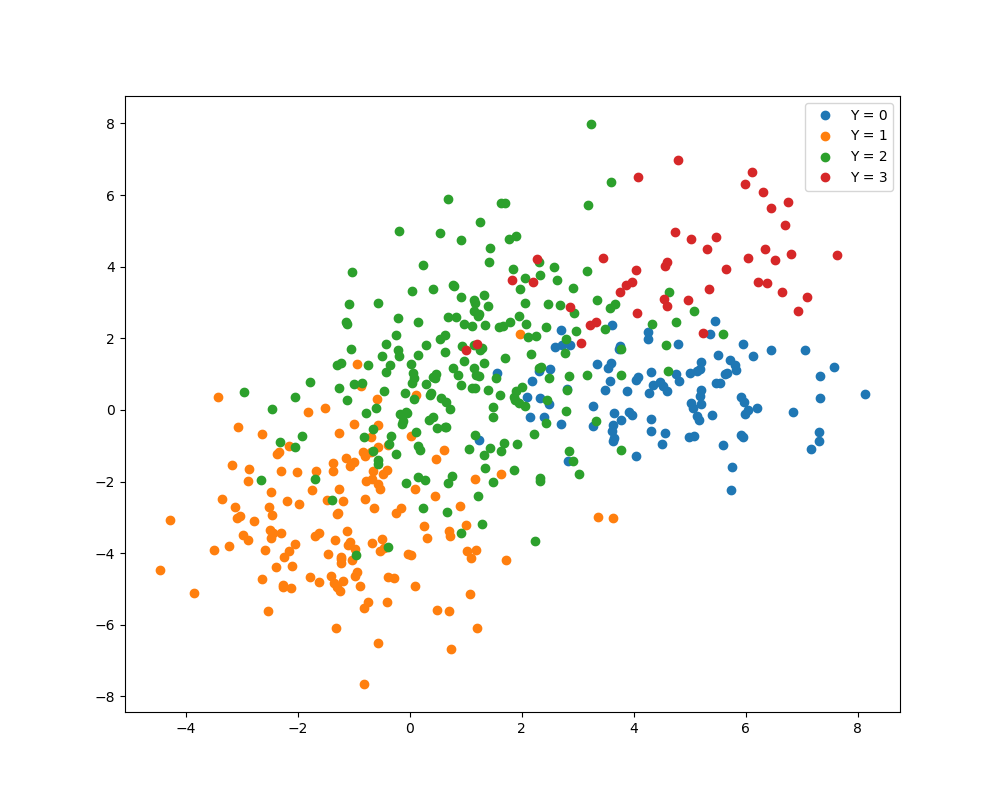
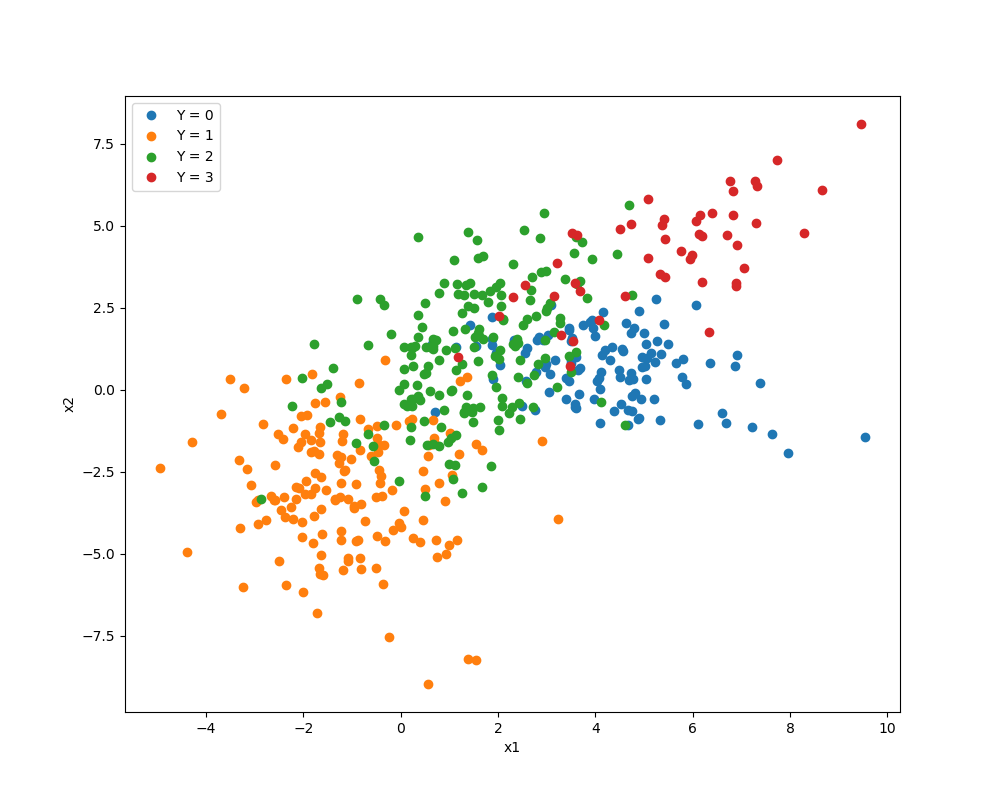
Evaluate GMM on a test set (and compare to simple random forest baselines)

diff --git a/simulation.py b/simulation.py
@@ -2,6 +2,8 @@ import numpy as np
 import matplotlib.pyplot as plt
 import pandas as pd
 from scipy.stats import multivariate_normal
+from sklearn.ensemble import RandomForestClassifier
+from sklearn.metrics import log_loss
 
 
 def update_params_hat(df, pr_y_given_x):
@@ -74,18 +76,9 @@ def run_expectation_maximization(df, n_classes, max_iter=20):
     # Try multiple random starting values, return best likelihood
     # Note that [0, 0] and n=2 both hardcode the dimension of the predictors ["x1", "x2"]
     params_hat = {
-        "pr_y": [
-            1 / n_classes,
-        ]
-        * n_classes,
-        "mu_x": [
-            [0, 0],
-        ]
-        * n_classes,
-        "vcov_x": [
-            np.identity(n=2),
-        ]
-        * n_classes,
+        "pr_y": [1 / n_classes,] * n_classes,
+        "mu_x": [[0, 0],] * n_classes,
+        "vcov_x": [np.identity(n=2),] * n_classes,
         "n_classes": n_classes,
     }
 
@@ -120,11 +113,7 @@ def simulate_x(df, mu_x, vcov_x, n_classes):
 
 
 def simulate(
-    n_obs,
-    pr_y,
-    mu_x,
-    vcov_x,
-    pr_y_is_observed,
+    n_obs, pr_y, mu_x, vcov_x, pr_y_is_observed,
 ):
 
     n_classes = len(pr_y)
@@ -148,64 +137,27 @@ def simulate(
     return df
 
 
-def main():
+def save_plots(df_train, params_hat, mu_x):
 
-    # TODO Set np random seed
-
-    # Entry i is the mean of X conditional on Y==i
-    # The predictors X are in R^2
-    mu_x = [
-        [4.5, 0.5],
-        [-1, -3],
-        [1, 1],
-        [5, 4],
-    ]
-
-    # Entry i is the variance-covariance matrix of X conditional on Y==i
-    # Make sure these are positive (semi-) definite
-    vcov_x = [
-        [
-            [2.0, -0.3],
-            [-0.3, 1.0],
-        ],
-        [
-            [2, 0],
-            [0, 3],
-        ],
-        [
-            [2, 1],
-            [1, 4],
-        ],
-        [
-            [3.0, 1.5],
-            [1.5, 2.0],
-        ],
-    ]
-
-    pr_y = [0.2, 0.3, 0.4, 0.1]
-    df_train = simulate(
-        n_obs=500,
-        pr_y=pr_y,
-        mu_x=mu_x,
-        vcov_x=vcov_x,
-        pr_y_is_observed=0.05,
-    )
+    n_classes = params_hat["n_classes"]
 
     fig, ax = plt.subplots(figsize=(10, 8))
     x1 = np.array(df_train["x1"])
     x2 = np.array(df_train["x2"])
-    for c in range(len(pr_y)):
+    for c in range(n_classes):
         idx_class = np.where(df_train["true_y"] == c)[0].tolist()
         plt.plot(
             x1[idx_class], x2[idx_class], label=f"Y = {c}", marker="o", linestyle=""
         )
 
     ax.legend()
+    plt.xlabel("x1")
+    plt.ylabel("x2")
     plt.savefig("plot_simulation_x_and_true_y.png")
     plt.clf()
 
     fig, ax = plt.subplots(figsize=(10, 8))
-    for c in range(len(pr_y)):
+    for c in range(n_classes):
         idx_class = np.where(df_train["observed_y"] == c)[0].tolist()
         plt.plot(
             x1[idx_class], x2[idx_class], label=f"Y = {c}", marker="o", linestyle=""
@@ -221,18 +173,14 @@ def main():
         alpha=0.5,
     )
     ax.legend()
+    plt.xlabel("x1")
+    plt.ylabel("x2")
     plt.savefig("plot_simulation_x_and_observed_y.png")
     plt.clf()
 
-    # EM is not allowed to use true_y
-    # It only sees observed_y (which contains many NaNs)
-    params_hat = run_expectation_maximization(
-        df=df_train[["x1", "x2", "observed_y"]], n_classes=len(pr_y), max_iter=30
-    )
-
     fig, ax = plt.subplots(figsize=(10, 8))
     # TODO Could be fun to have a similar plot showing path of EM params_hat over time (iteration by iteration)
-    for c in range(params_hat["n_classes"]):
+    for c in range(n_classes):
         color = next(ax._get_lines.prop_cycler)["color"]
         plt.plot(
             mu_x[c][0],
@@ -252,12 +200,88 @@ def main():
         )
 
     ax.legend()
+    plt.xlabel("x1")
+    plt.ylabel("x2")
     plt.savefig("plot_mu_x_true_and_estimated.png")
     plt.clf()
 
     # TODO Also plot Pr[ Y | X ], or plot gaussian ellipses around E[ X | Y ] to visualize estimated vcov matrices
+    return
 
-    # TODO Evaluate model on a test set
+
+def main():
+
+    # TODO Set np random seed
+
+    # Entry i is the mean of X conditional on Y==i
+    # The predictors X are in R^2
+    mu_x = [
+        [4.5, 0.5],
+        [-1, -3],
+        [1, 1],
+        [5, 4],
+    ]
+
+    # Entry i is the variance-covariance matrix of X conditional on Y==i
+    # Make sure these are positive (semi-) definite
+    vcov_x = [
+        [[2.0, -0.3], [-0.3, 1.0],],
+        [[2, 0], [0, 3],],
+        [[2, 1], [1, 4],],
+        [[3.0, 1.5], [1.5, 2.0],],
+    ]
+
+    pr_y = [0.2, 0.3, 0.4, 0.1]
+    df_train = simulate(
+        n_obs=500, pr_y=pr_y, mu_x=mu_x, vcov_x=vcov_x, pr_y_is_observed=0.05,
+    )
+
+    # EM is not allowed to use true_y
+    # It only sees observed_y (which contains many NaNs)
+    params_hat = run_expectation_maximization(
+        df=df_train[["x1", "x2", "observed_y"]], n_classes=len(pr_y), max_iter=30
+    )
+
+    save_plots(df_train, params_hat, mu_x)
+
+    # Fit a random forest that gets to observe _all_ Ys (i.e. true_y instead of observed_y)
+    rf_true_y = RandomForestClassifier(n_estimators=200, max_features="sqrt")
+    rf_true_y.fit(df_train[["x1", "x2"]], df_train["true_y"])
+
+    # Fit a random forest that gets to observe only observed_y (but doesn't make any use of the unlabeled Xs)
+    rf_observed_y = RandomForestClassifier(n_estimators=200, max_features="sqrt")
+    y_is_observed = df_train["observed_y"].notnull()
+    rf_observed_y.fit(
+        df_train.loc[y_is_observed, ["x1", "x2"]],
+        df_train.loc[y_is_observed, "observed_y"],
+    )
+
+    # We're going to evaluate three models on this test set
+    # (a) our GMM which was trained on df_train[["x1", "x2", "observed_y"]]
+    # (b) a random forest that gets to "cheat" and train on df_train[["x1", "x2", "true_y"]]
+    # (c) a random forest trained on the subset of df_train[["x1", "x2", "observed_y"]] where observed_y is truly observed (i.e. not null)
+    df_test = simulate(
+        n_obs=1000, pr_y=pr_y, mu_x=mu_x, vcov_x=vcov_x, pr_y_is_observed=0.0,
+    )
+
+    # This function uses the estimated GMM to predict Y | X
+    # as long as observed_y is NaN (note pr_y_is_observed=0.0 above)
+    predictions_gmm = calculate_pr_y_given_x(df_test, params_hat)
+
+    predictions_rf_true_y = rf_true_y.predict_proba(df_test[["x1", "x2"]])
+    predictions_rf_observed_y = rf_observed_y.predict_proba(df_test[["x1", "x2"]])
+
+    test_loss_gmm = log_loss(df_test["true_y"], y_pred=predictions_gmm)
+    test_loss_rf_true_y = log_loss(df_test["true_y"], y_pred=predictions_rf_true_y)
+    test_loss_rf_observed_y = log_loss(
+        df_test["true_y"], y_pred=predictions_rf_observed_y
+    )
+
+    # TODO Replicate with different df_train to get sampling distribution of test_loss_* vars
+    print("Test set log losses (lower is better):")
+    print(f"test_loss_gmm = {test_loss_gmm}")
+    print(f"test_loss_rf_true_y = {test_loss_rf_true_y}")
+    print(f"test_loss_rf_observed_y = {test_loss_rf_observed_y}")
 
 
 if __name__ == "__main__":
